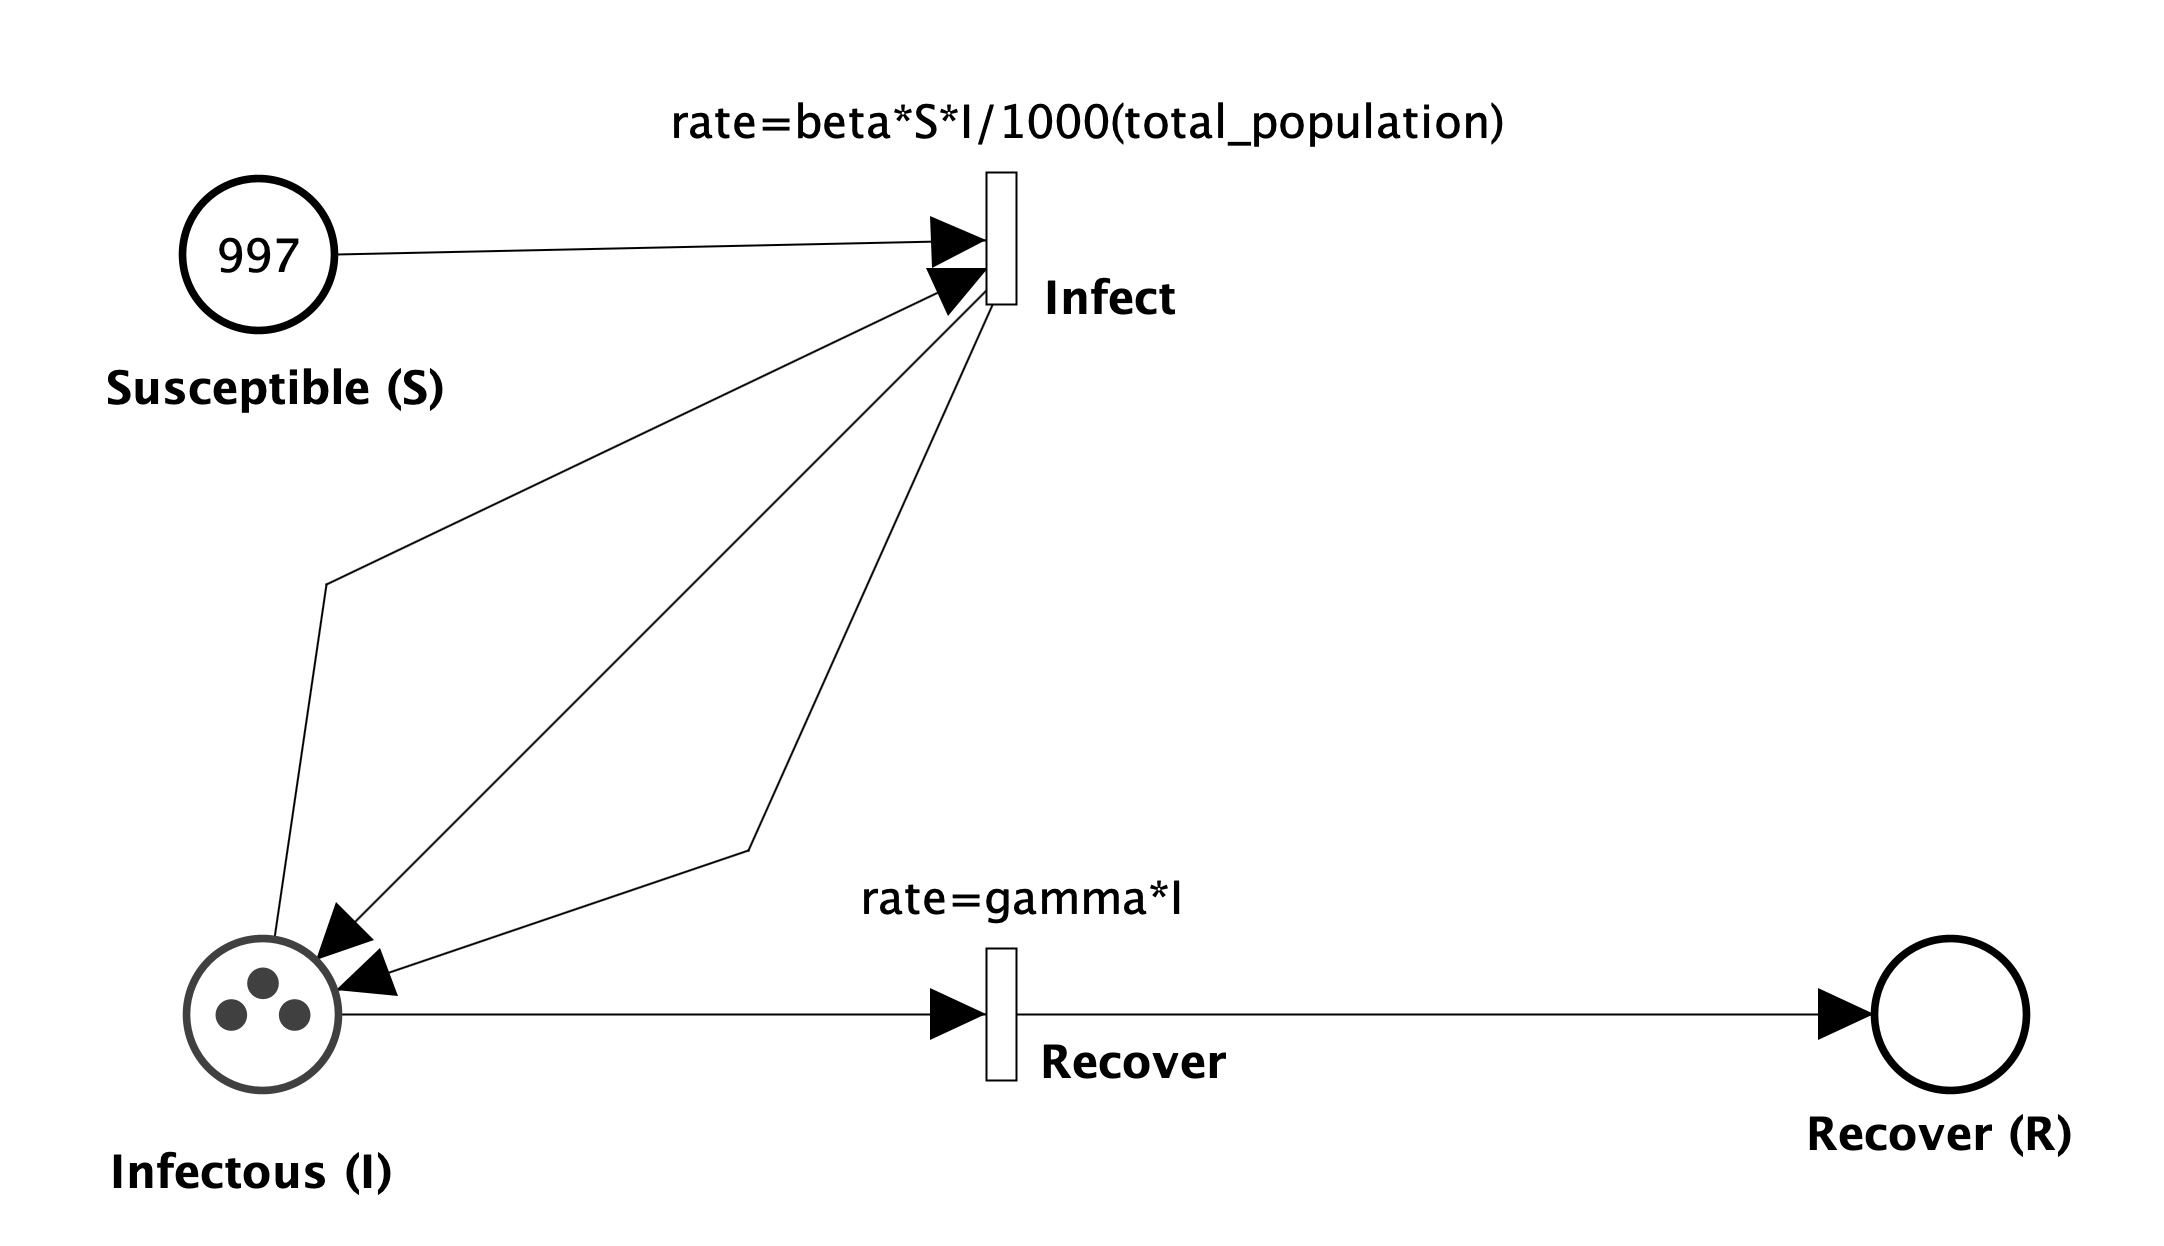
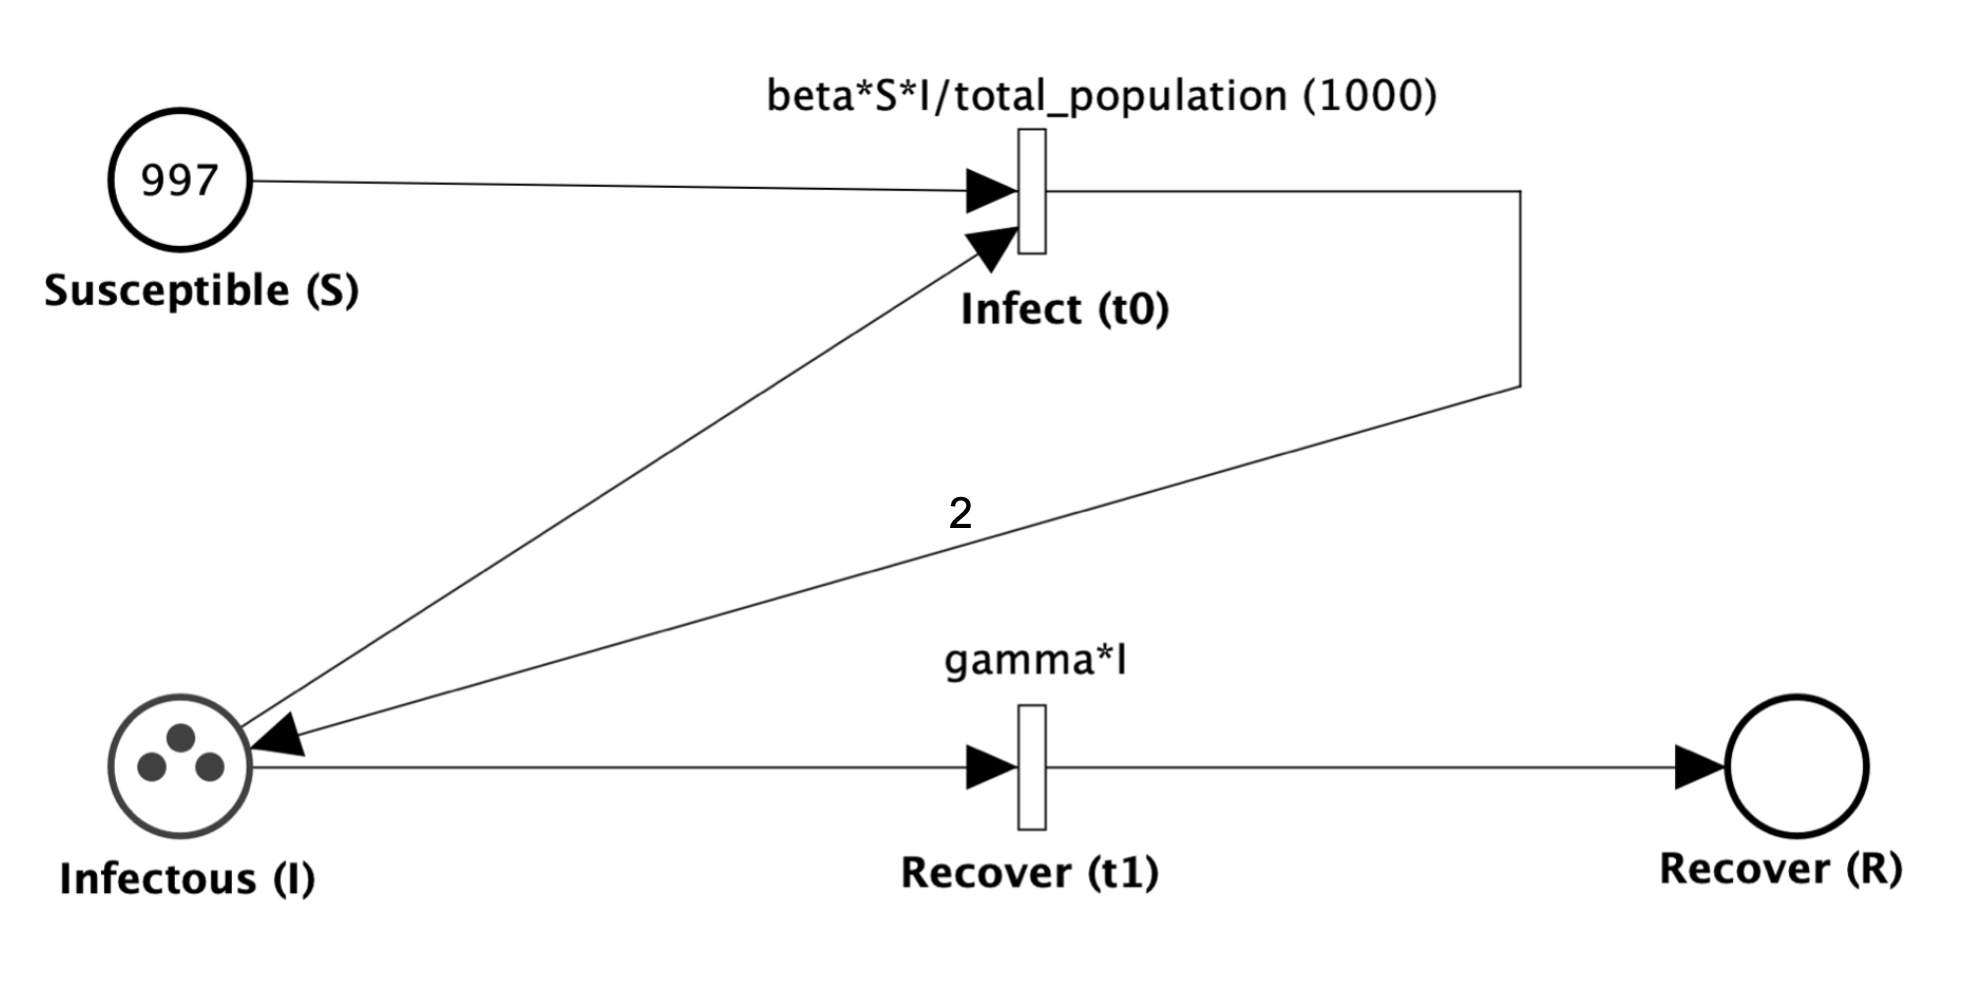
add ctmc for sir_super model

diff --git a/model-checking/README.md b/model-checking/README.md
@@ -17,4 +17,5 @@ One can verify properties, specified in sir.prism, of a model, sir.props, using 
 ```shell
 storm --prism sir.prism -prop sir.props --prismcompat --constants N=100 --timemem 
 ```
+
 We can also obtain precise probabilities using the keyword `--exact` keyword

diff --git a/model-checking/sirsuper/README.md b/model-checking/sirsuper/README.md
@@ -1,0 +1,10 @@
+# SPN representation of SIRSUPER model
+
+![](../petrinets/sir_super.png)
+
+
+## Verification results
+
+| Property    | Probability |
+| ----------- | ----------- |
+| P=?[F Inf = 0]  | 1      |
